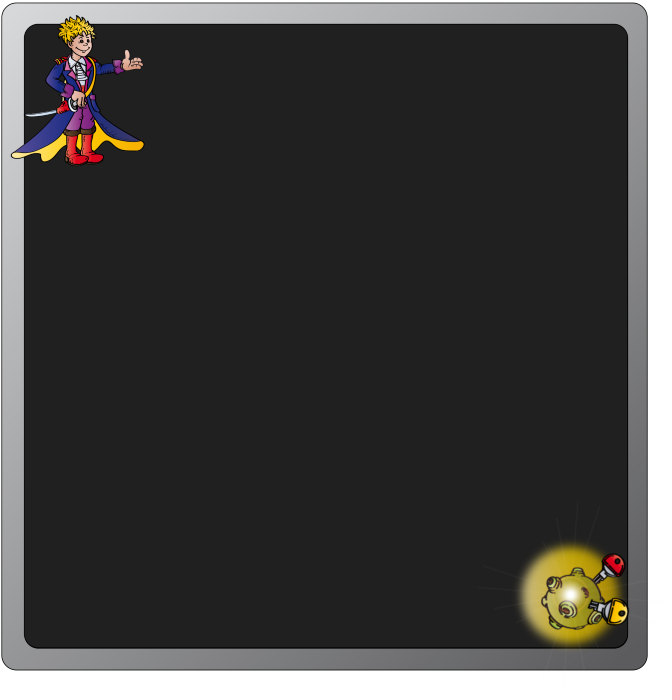
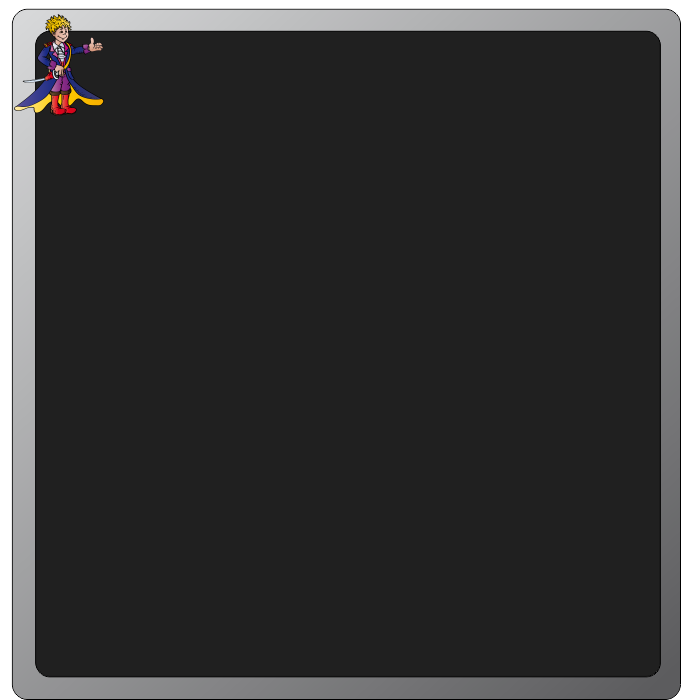
Doplnění další funkcionality

Changed region(s): [[0.0, 0.0, 1.0, 1.0]]

diff --git a/www/lib/plan.js b/www/lib/plan.js
@@ -3,7 +3,7 @@
     @description: main class for handling space and area
  */
 
-/* images fro planet.js */
+/* images from planet.js */
 var lp_img_space = new Image();
 lp_img_space.src = 'assets/space.jpg';
 
@@ -22,7 +22,7 @@ lp_messagebox.src = 'assets/dialog2.png';
 var lp_close = new Image();
 lp_close.src = 'assets/close.png';
 
-
+// Namespace for functions
 var lp_space = function () {};
 
 // Global array
@@ -34,6 +34,7 @@ lp_space._earth = undefined;
 lp_space._activity_dialog = undefined;
 lp_space._messagebox = undefined;
 lp_space._cover = undefined;
+lp_space._text_object = undefined;
 
 lp_space.div_space_id = "lp_space";
 
@@ -88,7 +89,7 @@ lp_space.create_space = function() {
     // preserve 16:9 format
     lp_space.screen_height = 9/16*lp_space.screen_width;
 
-    console.log(lp_space.screen_width+" "+lp_space.screen_height);
+    console.log("Space area: "+lp_space.screen_width+"x"+lp_space.screen_height);
 
     lp_space.scale_width = lp_space.screen_width/lp_space.basic_width;
     lp_space.scale_height = lp_space.screen_height/lp_space.basic_height;
@@ -200,11 +201,30 @@ lp_space._add_plannets = function() {
  * @private
  */
 lp_space._server_load_space_object = function() {
-  return $.ajax({
+
+    // TODO Load from server 1
+     var json_from_server = {
+                            "planet":[
+                                {"id":1, "name":"Země", "size":150, "type":"earth"},
+                                {"id":2346, "name":null, "custom_name": "Šamanova", "x":300, "y":100, "size":70, "type":"standard_planet"},
+                                {"id":3245, "name":"Tutu vesmírná planeta", "x":600, "y":600, "size":40, "type":"standard_planet"},
+                                {"id":4125, "name":"Dejmalova", "x":1100, "y":610, "size":60, "type":"chair_planet", "shadow_color":"orange", "aspect_ration":1.23},
+                                {"id":5987, "name":"Vojačkova", "x":1150, "y":200, "size":80, "type":"standard_planet"},
+                                {"id":5917, "name":"Hernova", "x":900, "y":520, "size":60, "type":"standard_planet"},
+                                {"id":8765, "name":null, "custom_name":null, "x":1110, "y":250, "size":20, "type":"standard_planet"},
+                                {"id":7865, "name":"Proxima", "x":424, "y":500, "size":60, "type":"special_planet"},
+                                {"id":1456, "name":"Royova", "x":700, "y":160, "size":90, "type":"special_planet"},
+                                {"id":2456, "x":550, "y":356, "type":"worm_hole", "end": 2457},
+                                {"id":2457, "x":1220, "y":543, "type":"worm_hole", "end": 2456},
+                            ]
+                            };
+    return json_from_server;
+
+    /*return $.ajax({
     url: 'map/planets',
     async: false,
     dataType: 'json'
-}).responseJSON;
+}).responseJSON;*/
 
 };
 
@@ -253,7 +273,7 @@ lp_space.display_activity = function(planet_id) {
     });
 
     var close_button = new Konva.Image({
-        x: lp_space._activity_dialog.width()-(110*lp_space.scale_width),
+        x: lp_space._activity_dialog.width()-(80*lp_space.scale_width),
         y: 30*lp_space.scale_height,
         width: 60*lp_space.scale_width,
         height: 60*lp_space.scale_height,
@@ -262,13 +282,10 @@ lp_space.display_activity = function(planet_id) {
 
     close_button.on("mouseenter", function() {lp_space.add_button_effect(close_button,true, "white",lp_space._dialog_layer)});
     close_button.on("mouseleave", function() {lp_space.add_button_effect(close_button,false, null, lp_space._dialog_layer)});
-
     close_button.on("click", function() {lp_space.hide_displayed_activity()});
     close_button.on("tap", function() {lp_space.hide_displayed_activity()});
 
-    var title = lp_pilot._get_text(160*lp_space.scale_width,40*lp_space.scale_height, "Planeta "+ lp_planet.get_planet_name(lp_pilot.get_pilot_position()), Math.round(30* lp_space.scale_width), 300*lp_space.scale_width);
-
-    // TODO load activity and display from server. 7
+    var title = lp_pilot._get_text(100*lp_space.scale_width,40*lp_space.scale_height, "Planeta "+ lp_planet.get_planet_name(lp_pilot.get_pilot_position()), Math.round(30* lp_space.scale_width), 300*lp_space.scale_width);
 
     lp_space._dialog_layer.add(lp_space._cover);
     lp_space._activity_dialog.add(dialog_box);
@@ -277,10 +294,93 @@ lp_space.display_activity = function(planet_id) {
 
     lp_space._dialog_layer.add(lp_space._activity_dialog);
     lp_space._dialog_layer.draw();
+
+    var dialog_position = lp_space._activity_dialog.getAbsolutePosition();
+
+    lp_space._text_object = document.createElement('div');
+    document.body.appendChild(lp_space._text_object);
+
+    lp_space._text_object.innerHTML = "Chvilku vydrž, načítám aktivitu planety.";
+    lp_space._text_object.classList.add("activity_container");
+    lp_space._text_object.style.position = 'absolute';
+    lp_space._text_object.style.top = (dialog_position.y + title.y() + title.height() +30*lp_space.scale_height) + 'px';
+    lp_space._text_object.style.left = (dialog_position.x + title.x()) + 'px';
+    lp_space._text_object.style.color = "white";
+    lp_space._text_object.style.width = (lp_space._activity_dialog.width()-title.x()-(40*lp_space.scale_width))+"px";
+    lp_space._text_object.style.height = (lp_space._activity_dialog.height()- title.y()-title.height()-(80*lp_space.scale_height))+"px";
+    lp_space._text_object.style.overflowY = "auto";
+
+    // Load description from server
+    lp_space._text_object.innerHTML = lp_space.get_activity(planet_id);
 };
 
 /**
- *
+ * Get activity from server
+ */
+lp_space.get_activity = function(planet_id) {
+    var planet_id_int = lp_planet.remove_planet_prefix(planet_id);
+
+     /*return $.ajax({
+        url: 'map/planets',
+        async: false,
+        dataType: 'json'
+    }).responseJSON;*/
+    // TODO from server
+
+     var response_json = {
+         "author": "Tým malého prince",
+         "name": "Balení na cestu",
+         "category": "Mladší a starší", // text description from authors, not category from pilot
+         "accessories": "2 papíry velikosti A4, psací potřeby,nůžky,lepidlo",
+         "description": "Tvým  úkolem bude zhotovit si jednoduchou raketu z papíru a na ní naskládat věci potřebné na dalekou cestu. Můžeš použít jen věci které máš doma.<br>" +
+             "<br>" +
+             "Výroba rakety. Vem si list papíru velikosti A 4<br>" +
+             "                        Přelož kratší stranu papíru k delší straně a  nehtem zafixuj ohyb papíru.<br>" +
+             "                        Ustřihni papír tak, aby ti zůstali jen 2 trojúhelníky na sobě a ty pak rozstřihni aby                      <br>" +
+             "                        jsi měl dva samostatné trojúhelníky<br>" +
+             "                        Nyní si vem druhý list papíru a podlep na jeho kratší část trojúhelník tak, aby <br>" +
+             "                        dělal  stříšku, tedy špičku rakety.<br>" +
+             "                        Druhý trojúhelník podlep pod druhou krátkou stranu papíru (oba trojúhelníky          <br>" +
+             "                         směřují  stejným směrem) a nech z něho  vystrkovat  na každé straně jen 2 malé <br>" +
+             "                         trojúhelníky. <br>" +
+             "<br>" +
+             "Nyní máš raketu  hotovou. Skládá se z těla rakety tj. 1 celý list papíru + 5 trojúhelníků které dělají špičku rakety(ten velký)  a usměrňovací křídla (4 malé)<br>" +
+             "<br>" +
+             "Kategorie M (mladší) musí naskládat na tělo rakety minimálně 15 věcí<br>" +
+             "Kategorie S (starší) musí naskládat na tělo rakety minimálně 20 věcí<br>" +
+             "<br>" +
+             "Akce navíc - vyzdob špičku rakety (aspoň napiš svoje jméno)  a křídla.<br>" +
+             "skus rekord  (klidně i s celou rodinou kolik věcí na 1 list papíru naskládáte.",
+         "output": "Vyfoť svůj výtvor a nahraj jej do portálu.",
+         "notes": "Věci se mohou dotýkat a být na sobě.<br>" +
+             "Nepoužívejte věci které by se mohli rozbít, zvláště pak pozor na sklo.<br>" +
+             "Při slepování rakety si podlož lepené spoje jiným papírem nebo novinami.",
+     };
+
+     // prepared outpu html
+     var html = "";
+     if ((response_json === null || response_json.name === "") || planet_id_int != 1) {
+         html = "<div>Tato planeta nemá žádnou aktivitu :(.</div>";
+     } else {
+         html = "<h2>"+response_json.name+"</h2>";
+         if (response_json.author !== null && response_json.author !== "") {
+            html += "<div class='author'>Author: "+response_json.author+"</div>";
+         }
+         html += "<div class='category'>Věkové kategorie: "+response_json.category+"</div>";
+         html += "<div class='accessories'>Potřeby: "+response_json.accessories+"</div>";
+         html += "<div class='output'>Splnění: "+response_json.output+"</div>";
+         html += "<h2>Popis</h2>";
+         html += "<div class='description'>"+response_json.description+"</div>";
+         if (response_json.notes !== null && response_json.notes !== "") {
+             html += "<h2>Poznámky</h2>";
+             html += "<div>"+response_json.notes+"<div>";
+         }
+     }
+     return html;
+};
+
+/**
+ * Dialog is opened or not
  * @returns {boolean}
  */
 lp_space.is_displayed_activity = function() {
@@ -298,6 +398,9 @@ lp_space.hide_displayed_activity = function() {
         lp_space._cover.destroy();
         lp_space._cover = undefined;
         lp_space._dialog_layer.draw();
+        document.body.removeChild(lp_space._text_object);
+        lp_space._text_object = undefined;
+
     }
 };
 

diff --git a/www/lib/pilot.js b/www/lib/pilot.js
@@ -47,11 +47,22 @@ lp_pilot.init = function() {
  */
 lp_pilot._server_load_pilot_data = function() {
     // TODO backend loading 2
-    var json_from_server =  $.ajax({
+     var json_from_server =      {   "id":1,
+                                    "name":"David Pokorný",
+                                    "rank_id":"1",
+                                    "rank_name":"Nadporučík vesmírné stanice",
+                                    "category_id":1,
+                                    "category_name":"skauti/skautky od 6 do 9 třídy",
+                                    "actual_position": 1,
+                                    "actual_flight": null,
+                                    "photo": "absolutepath"
+                                };
+
+    /*var json_from_server =  $.ajax({
                                   url: 'map/pilot',
                                   async: false,
                                   dataType: 'json'
-                              }).responseJSON;
+                              }).responseJSON;*/
 
 
     // add prefixes to source and target id, because server cannot know
@@ -548,12 +559,12 @@ lp_pilot._activate_flight = function() {
         var json_to_server = lp_pilot.create_flight_json();
 
 
-        $.ajax({
+        /*$.ajax({
                   url: 'map/flight',
                   async: false,
                   dataType: 'json',
                   data: json_to_server
-              }).responseJSON;
+              }).responseJSON;*/
 
         // TODO send to server json_to_server 3
 
@@ -633,7 +644,13 @@ lp_pilot.set_planet_position = function(target_id) {
     // display avatar
     lp_pilot._add_pilot_position();
 
+
+    var json_to_server = {
+        "target_id": lp_planet.remove_planet_prefix(target_id),
+        "new_name": null,
+    }
     // TODO json to server 4
+
     // protection target_id
 };
 
@@ -666,10 +683,11 @@ lp_pilot.create_flight_json = function() {
         time_to_end.setTime(actual_time.getTime()+(result["time_to_fligh"]*60*60*1000));
 
         var returned_json = {
-            "source_id": source_id,
-            "target_id": target_id,
+            "source_id": lp_planet.remove_planet_prefix(source_id),
+            "target_id": lp_planet.remove_planet_prefix(target_id),
             "start_at": actual_time.toISOString(),
-            "finish_at": time_to_end.toISOString()
+            "finish_at": time_to_end.toISOString(),
+            "distance": result.real_distance,
         };
 
 

diff --git a/www/lib/planet.js b/www/lib/planet.js
@@ -212,17 +212,29 @@ lp_planet.get_planet_name = function(planet_id) {
 
 /**
  * Return id prefixed to name in array
- * @param id
+ * @param planet_id
  * @returns {string}
  */
-lp_planet.add_planet_prefix = function(id) {
-    var id_string = id.toString();
+lp_planet.add_planet_prefix = function(planet_id) {
+    var id_string = planet_id.toString();
     if (id_string.substring(0,2) !== "pl") {
         return "pl_"+id_string;
     }
     else {
         return id_string;
     }
+};
+
+/**
+ * Return id prefixed to name in array
+ * @param planet_id
+ * @returns {string}
+ */
+lp_planet.remove_planet_prefix = function(planet_id) {
+     if (planet_id.substring(0,2) === "pl") {
+         return parseInt(planet_id.substring(3));
+     }
+     return parseInt(planet_id);
 };
 
 /**
@@ -314,12 +326,12 @@ lp_planet.get_distance_from_measure = function() {
         // Because of ange it depend on size
         var a2 = Math.abs((source_x2)-(target_x2));
         var b2 = Math.abs((source_y2)-(target_y2));
-        var c2 = Math.abs(Math.sqrt(Math.pow(a2,2)+Math.pow(b2,2)));
+        var c2 = Math.round(Math.abs(Math.sqrt(Math.pow(a2,2)+Math.pow(b2,2))));
 
         var angle = Math.round(180-90-(Math.asin(a2/c2)* (180/Math.PI)));
 
         var hour_constant = lp_space.basic_width/75; // 75 hour to all space
-        var time_to_flight = Math.round(Math.round(c)/hour_constant); // time in hour
+        var time_to_flight = Math.round(c2/hour_constant); // time in hour
         return {"distance": Math.round(c)*100, "angle": angle, "time_to_fligh": time_to_flight, "real_distance": c2};
     }
     return null;
